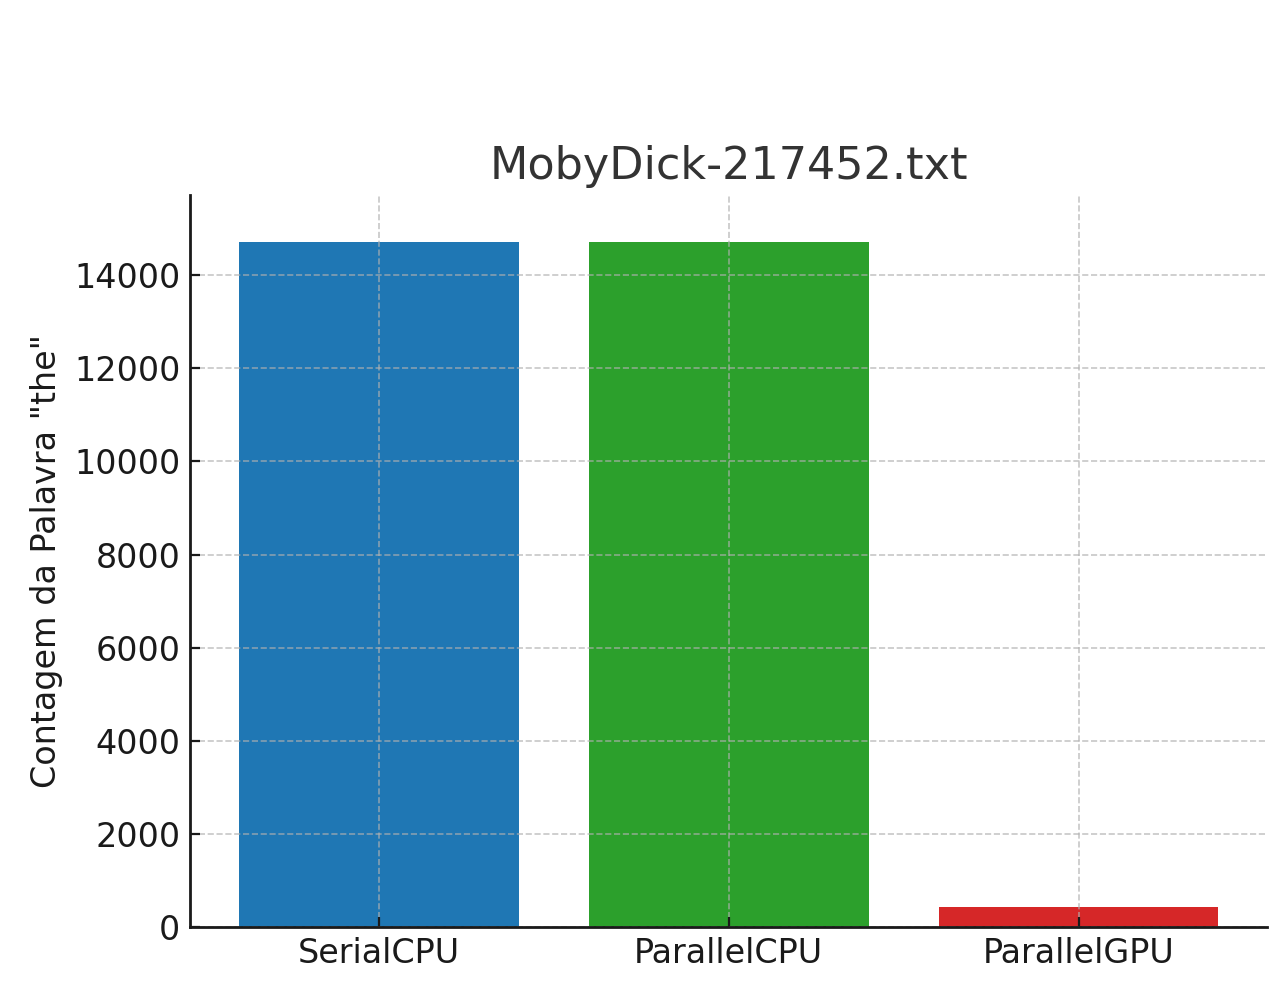
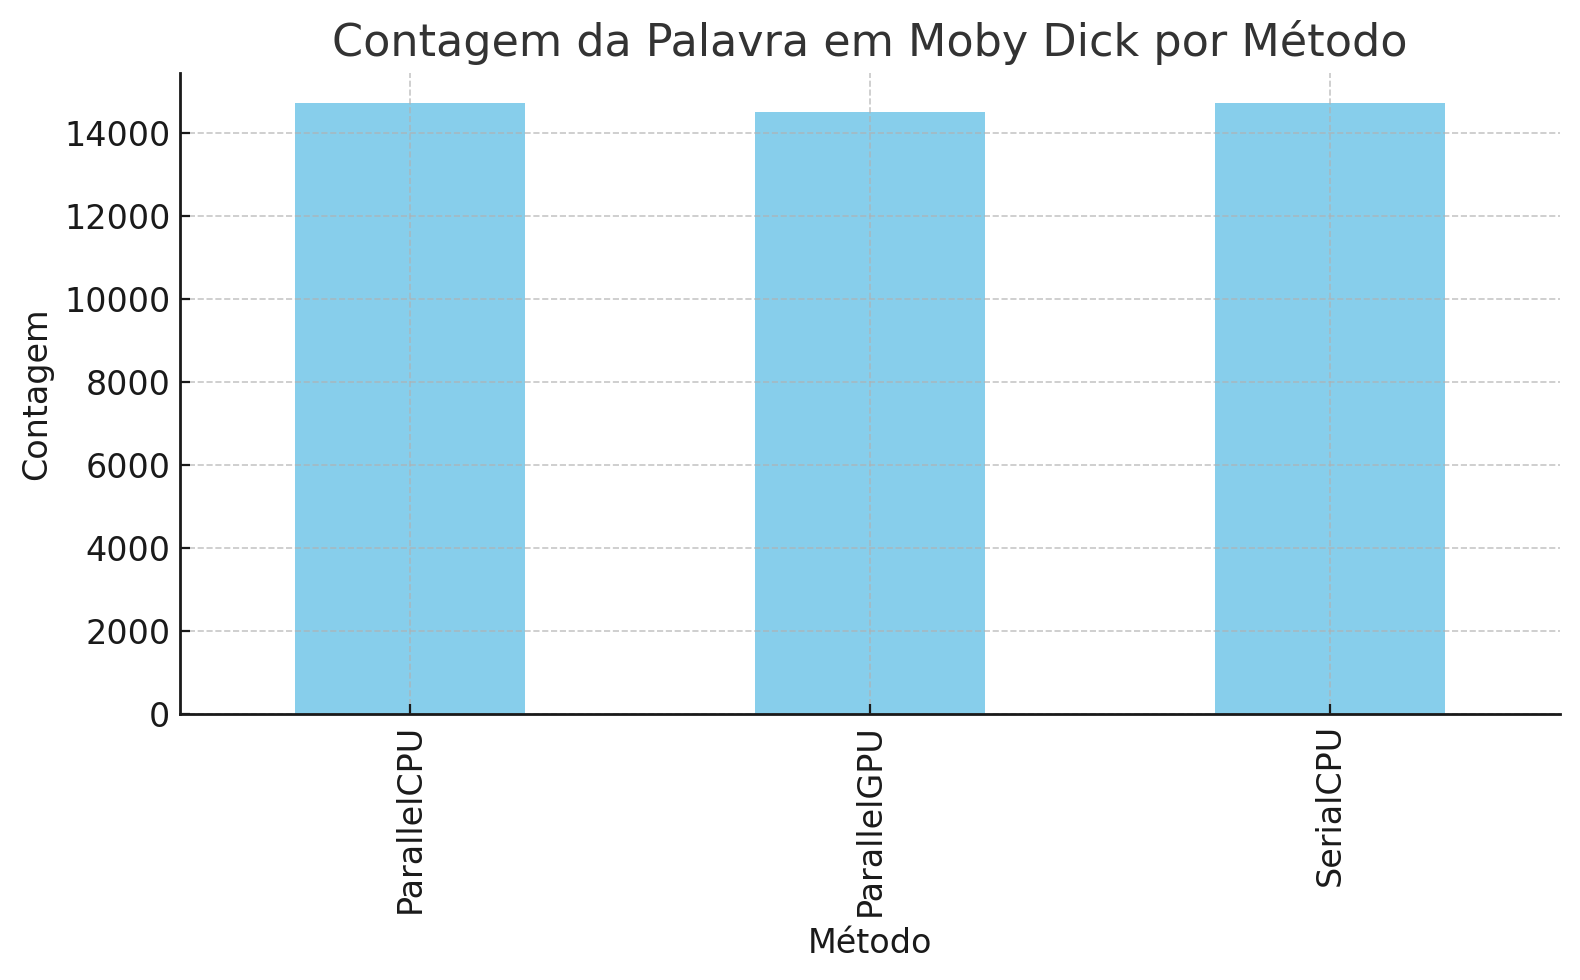
Corrigindo os Gráficos

diff --git a/src/main/java/OpenCLWordCounter.java b/src/main/java/OpenCLWordCounter.java
@@ -2,6 +2,7 @@ import org.jocl.*;
 import static org.jocl.CL.*;
 import java.io.*;
 import java.nio.file.*;
+import java.util.*;
 
 public class OpenCLWordCounter {
     
@@ -27,6 +28,7 @@ public class OpenCLWordCounter {
             cl_device_id[] devices = new cl_device_id[1];
             try {
                 clGetDeviceIDs(platforms[0], CL_DEVICE_TYPE_GPU, 1, devices, null);
+                System.out.println("Usando GPU");
             } catch (Exception e) {
                 System.out.println("GPU não disponível, usando CPU");
                 clGetDeviceIDs(platforms[0], CL_DEVICE_TYPE_CPU, 1, devices, null);
@@ -41,10 +43,21 @@ public class OpenCLWordCounter {
             String kernelSource = loadKernelSource();
             program = clCreateProgramWithSource(context, 1, 
                     new String[]{kernelSource}, null, null);
-            clBuildProgram(program, 0, null, null, null, null);
+            
+            int buildResult = clBuildProgram(program, 0, null, null, null, null);
+            if (buildResult != CL_SUCCESS) {
+                // Obter log de build em caso de erro
+                long[] logSize = new long[1];
+                clGetProgramBuildInfo(program, device, CL_PROGRAM_BUILD_LOG, 0, null, logSize);
+                byte[] log = new byte[(int)logSize[0]];
+                clGetProgramBuildInfo(program, device, CL_PROGRAM_BUILD_LOG, logSize[0], Pointer.to(log), null);
+                System.err.println("Erro de build: " + new String(log));
+                throw new RuntimeException("Falha ao compilar kernels");
+            }
             
         } catch (Exception e) {
             System.err.println("Erro ao inicializar OpenCL: " + e.getMessage());
+            e.printStackTrace();
             throw new RuntimeException(e);
         }
     }
@@ -54,6 +67,7 @@ public class OpenCLWordCounter {
             return countWordsOptimized(text, searchWord);
         } catch (Exception e) {
             System.err.println("Erro no processamento GPU, tentando método simples: " + e.getMessage());
+            e.printStackTrace();
             return countWordsSimple(text, searchWord);
         }
     }
@@ -63,20 +77,32 @@ public class OpenCLWordCounter {
         text = text.toLowerCase();
         searchWord = searchWord.toLowerCase();
         
-        // Pré-processar: encontrar boundaries das palavras
-        String[] words = text.split("\\W+");
-        int[] wordBoundaries = new int[words.length];
-        int currentPos = 0;
+        // Pré-processar: encontrar palavras usando regex mais precisa
+        String[] words = text.split("[\\s\\p{Punct}]+");
+        List<String> validWords = new ArrayList<>();
+        List<Integer> wordPositions = new ArrayList<>();
         
-        for (int i = 0; i < words.length; i++) {
-            // Encontrar posição da palavra no texto original
-            while (currentPos < text.length() && 
-                   !Character.isLetterOrDigit(text.charAt(currentPos))) {
-                currentPos++;
+        // Encontrar posições das palavras válidas
+        int currentPos = 0;
+        for (String word : words) {
+            if (!word.isEmpty()) {
+                // Encontrar a posição real da palavra no texto
+                int wordPos = text.indexOf(word, currentPos);
+                if (wordPos >= 0) {
+                    validWords.add(word);
+                    wordPositions.add(wordPos);
+                    currentPos = wordPos + word.length();
+                }
             }
-            wordBoundaries[i] = currentPos;
-            currentPos += words[i].length();
         }
+        
+        if (validWords.isEmpty()) {
+            return 0;
+        }
+        
+        // Converter para arrays
+        int[] wordBoundaries = wordPositions.stream().mapToInt(i -> i).toArray();
+        int[] wordLengths = validWords.stream().mapToInt(String::length).toArray();
         
         // Criar buffers OpenCL
         byte[] textBytes = text.getBytes();
@@ -96,9 +122,14 @@ public class OpenCLWordCounter {
             CL_MEM_READ_ONLY | CL_MEM_COPY_HOST_PTR,
             Sizeof.cl_int * wordBoundaries.length, 
             Pointer.to(wordBoundaries), null);
+            
+        cl_mem lengthsBuffer = clCreateBuffer(context, 
+            CL_MEM_READ_ONLY | CL_MEM_COPY_HOST_PTR,
+            Sizeof.cl_int * wordLengths.length, 
+            Pointer.to(wordLengths), null);
         
         // Buffer para resultados (um por palavra)
-        int[] results = new int[words.length];
+        int[] results = new int[validWords.size()];
         cl_mem resultsBuffer = clCreateBuffer(context, 
             CL_MEM_WRITE_ONLY,
             Sizeof.cl_int * results.length, null, null);
@@ -111,12 +142,16 @@ public class OpenCLWordCounter {
         clSetKernelArg(kernel, 2, Sizeof.cl_mem, Pointer.to(searchBuffer));
         clSetKernelArg(kernel, 3, Sizeof.cl_int, Pointer.to(new int[]{searchBytes.length}));
         clSetKernelArg(kernel, 4, Sizeof.cl_mem, Pointer.to(boundariesBuffer));
-        clSetKernelArg(kernel, 5, Sizeof.cl_int, Pointer.to(new int[]{words.length}));
-        clSetKernelArg(kernel, 6, Sizeof.cl_mem, Pointer.to(resultsBuffer));
+        clSetKernelArg(kernel, 5, Sizeof.cl_mem, Pointer.to(lengthsBuffer));
+        clSetKernelArg(kernel, 6, Sizeof.cl_int, Pointer.to(new int[]{validWords.size()}));
+        clSetKernelArg(kernel, 7, Sizeof.cl_mem, Pointer.to(resultsBuffer));
         
         // Executar kernel
-        long[] globalWorkSize = {words.length};
+        long[] globalWorkSize = {validWords.size()};
         clEnqueueNDRangeKernel(queue, kernel, 1, null, globalWorkSize, null, 0, null, null);
+        
+        // Aguardar conclusão
+        clFinish(queue);
         
         // Ler resultados
         clEnqueueReadBuffer(queue, resultsBuffer, CL_TRUE, 0, 
@@ -128,10 +163,19 @@ public class OpenCLWordCounter {
             totalCount += count;
         }
         
+        // Debug: mostrar palavras encontradas
+        System.out.printf("Debug: Processando %d palavras, buscando '%s'%n", validWords.size(), searchWord);
+        for (int i = 0; i < validWords.size(); i++) {
+            if (results[i] > 0) {
+                System.out.printf("  Encontrada: '%s' na posição %d%n", validWords.get(i), wordBoundaries[i]);
+            }
+        }
+        
         // Limpeza
         clReleaseMemObject(textBuffer);
         clReleaseMemObject(searchBuffer);
         clReleaseMemObject(boundariesBuffer);
+        clReleaseMemObject(lengthsBuffer);
         clReleaseMemObject(resultsBuffer);
         clReleaseKernel(kernel);
         
@@ -139,6 +183,8 @@ public class OpenCLWordCounter {
     }
     
     private int countWordsSimple(String text, String searchWord) {
+        System.out.println("Usando método simples de fallback");
+        
         // Converter para minúsculas
         text = text.toLowerCase();
         searchWord = searchWord.toLowerCase();
@@ -157,8 +203,8 @@ public class OpenCLWordCounter {
             Sizeof.cl_char * searchBytes.length, 
             Pointer.to(searchBytes), null);
         
-        // Buffer para resultado único
-        int[] result = new int[1];
+        // Buffer para resultado único - inicializar com zero
+        int[] result = new int[]{0};
         cl_mem resultBuffer = clCreateBuffer(context, 
             CL_MEM_READ_WRITE | CL_MEM_COPY_HOST_PTR,
             Sizeof.cl_int, Pointer.to(result), null);
@@ -173,8 +219,11 @@ public class OpenCLWordCounter {
         clSetKernelArg(kernel, 4, Sizeof.cl_mem, Pointer.to(resultBuffer));
         
         // Executar kernel
-        long[] globalWorkSize = {textBytes.length};
+        long[] globalWorkSize = {Math.max(1, textBytes.length - searchBytes.length + 1)};
         clEnqueueNDRangeKernel(queue, kernel, 1, null, globalWorkSize, null, 0, null, null);
+        
+        // Aguardar conclusão
+        clFinish(queue);
         
         // Ler resultado
         clEnqueueReadBuffer(queue, resultBuffer, CL_TRUE, 0, 
@@ -210,32 +259,33 @@ public class OpenCLWordCounter {
                                     __global const char* searchWord,
                                     const int searchLength,
                                     __global const int* wordBoundaries,
+                                    __global const int* wordLengths,
                                     const int numWords,
                                     __global int* results) {
                 
                 int gid = get_global_id(0);
-                int localCount = 0;
                 
                 if (gid < numWords) {
                     int wordStart = wordBoundaries[gid];
-                    int wordEnd = (gid < numWords - 1) ? wordBoundaries[gid + 1] : textLength;
-                    int wordLength = wordEnd - wordStart;
+                    int wordLength = wordLengths[gid];
                     
+                    // Verificar se os comprimentos coincidem
                     if (wordLength == searchLength) {
                         bool match = true;
+                        // Comparar caractere por caractere
                         for (int i = 0; i < searchLength; i++) {
-                            if (text[wordStart + i] != searchWord[i]) {
+                            if (wordStart + i >= textLength || text[wordStart + i] != searchWord[i]) {
                                 match = false;
                                 break;
                             }
                         }
-                        if (match) {
-                            localCount = 1;
-                        }
+                        results[gid] = match ? 1 : 0;
+                    } else {
+                        results[gid] = 0;
                     }
+                } else {
+                    results[gid] = 0;
                 }
-                
-                results[gid] = localCount;
             }
             
             __kernel void countWordsSimple(__global const char* text,
@@ -247,14 +297,19 @@ public class OpenCLWordCounter {
                 int gid = get_global_id(0);
                 
                 if (gid <= textLength - searchLength) {
+                    // Verificar se estamos no início de uma palavra
                     bool isWordStart = (gid == 0) || 
                                       (text[gid - 1] == ' ' || text[gid - 1] == '\\t' || 
                                        text[gid - 1] == '\\n' || text[gid - 1] == '\\r' ||
                                        text[gid - 1] == '.' || text[gid - 1] == ',' ||
                                        text[gid - 1] == ';' || text[gid - 1] == ':' ||
-                                       text[gid - 1] == '!' || text[gid - 1] == '?');
+                                       text[gid - 1] == '!' || text[gid - 1] == '?' ||
+                                       text[gid - 1] == '(' || text[gid - 1] == ')' ||
+                                       text[gid - 1] == '[' || text[gid - 1] == ']' ||
+                                       text[gid - 1] == '{' || text[gid - 1] == '}');
                     
                     if (isWordStart) {
+                        // Verificar se a palavra coincide
                         bool match = true;
                         for (int i = 0; i < searchLength; i++) {
                             if (text[gid + i] != searchWord[i]) {
@@ -263,17 +318,26 @@ public class OpenCLWordCounter {
                             }
                         }
                         
-                        if (match && (gid + searchLength >= textLength || 
-                                     text[gid + searchLength] == ' ' || 
-                                     text[gid + searchLength] == '\\t' ||
-                                     text[gid + searchLength] == '\\n' || 
-                                     text[gid + searchLength] == '\\r' ||
-                                     text[gid + searchLength] == '.' || 
-                                     text[gid + searchLength] == ',' ||
-                                     text[gid + searchLength] == ';' || 
-                                     text[gid + searchLength] == ':' ||
-                                     text[gid + searchLength] == '!' || 
-                                     text[gid + searchLength] == '?')) {
+                        // Verificar se estamos no final de uma palavra
+                        bool isWordEnd = (gid + searchLength >= textLength || 
+                                         text[gid + searchLength] == ' ' || 
+                                         text[gid + searchLength] == '\\t' ||
+                                         text[gid + searchLength] == '\\n' || 
+                                         text[gid + searchLength] == '\\r' ||
+                                         text[gid + searchLength] == '.' || 
+                                         text[gid + searchLength] == ',' ||
+                                         text[gid + searchLength] == ';' || 
+                                         text[gid + searchLength] == ':' ||
+                                         text[gid + searchLength] == '!' || 
+                                         text[gid + searchLength] == '?' ||
+                                         text[gid + searchLength] == '(' || 
+                                         text[gid + searchLength] == ')' ||
+                                         text[gid + searchLength] == '[' || 
+                                         text[gid + searchLength] == ']' ||
+                                         text[gid + searchLength] == '{' || 
+                                         text[gid + searchLength] == '}');
+                        
+                        if (match && isWordEnd) {
                             atomic_inc(result);
                         }
                     }
@@ -296,18 +360,37 @@ public class OpenCLWordCounter {
     
     // Método de teste
     public static void main(String[] args) {
-        OpenCLWordCounter counter = new OpenCLWordCounter();
-        
-        String testText = "The quick brown fox jumps over the lazy dog. The dog was very lazy.";
-        String searchWord = "the";
-        
-        long startTime = System.currentTimeMillis();
-        int count = counter.countWords(testText, searchWord);
-        long endTime = System.currentTimeMillis();
-        
-        System.out.printf("ParallelGPU: %d ocorrências em %d ms%n", 
-                         count, endTime - startTime);
-        
-        counter.cleanup();
+        try {
+            OpenCLWordCounter counter = new OpenCLWordCounter();
+            
+            String testText = "The quick brown fox jumps over the lazy dog. The dog was very lazy.";
+            String searchWord = "the";
+            
+            System.out.printf("Texto: '%s'%n", testText);
+            System.out.printf("Buscando: '%s'%n", searchWord);
+            
+            long startTime = System.currentTimeMillis();
+            int count = counter.countWords(testText, searchWord);
+            long endTime = System.currentTimeMillis();
+            
+            System.out.printf("Resultado: %d ocorrências em %d ms%n", 
+                             count, endTime - startTime);
+            
+            // Teste adicional com método Java puro para comparação
+            String[] words = testText.toLowerCase().split("[\\s\\p{Punct}]+");
+            int javaCount = 0;
+            for (String word : words) {
+                if (word.equals(searchWord.toLowerCase())) {
+                    javaCount++;
+                }
+            }
+            System.out.printf("Comparação Java: %d ocorrências%n", javaCount);
+            
+            counter.cleanup();
+            
+        } catch (Exception e) {
+            System.err.println("Erro no teste: " + e.getMessage());
+            e.printStackTrace();
+        }
     }
 }

diff --git a/src/main/java/SearchAlgorithms.java b/src/main/java/SearchAlgorithms.java
@@ -116,7 +116,7 @@ public class SearchAlgorithms {
      */
     public static void main(String[] args) {
     try {
-        String textFile = "MobyDick-217452.txt";
+        String textFile = "DonQuixote-388208.txt";
         String path = "src\\main\\resources\\sample_texts\\" + textFile;
         String text = loadTextFromFile(path);
         String searchWord = "the";
